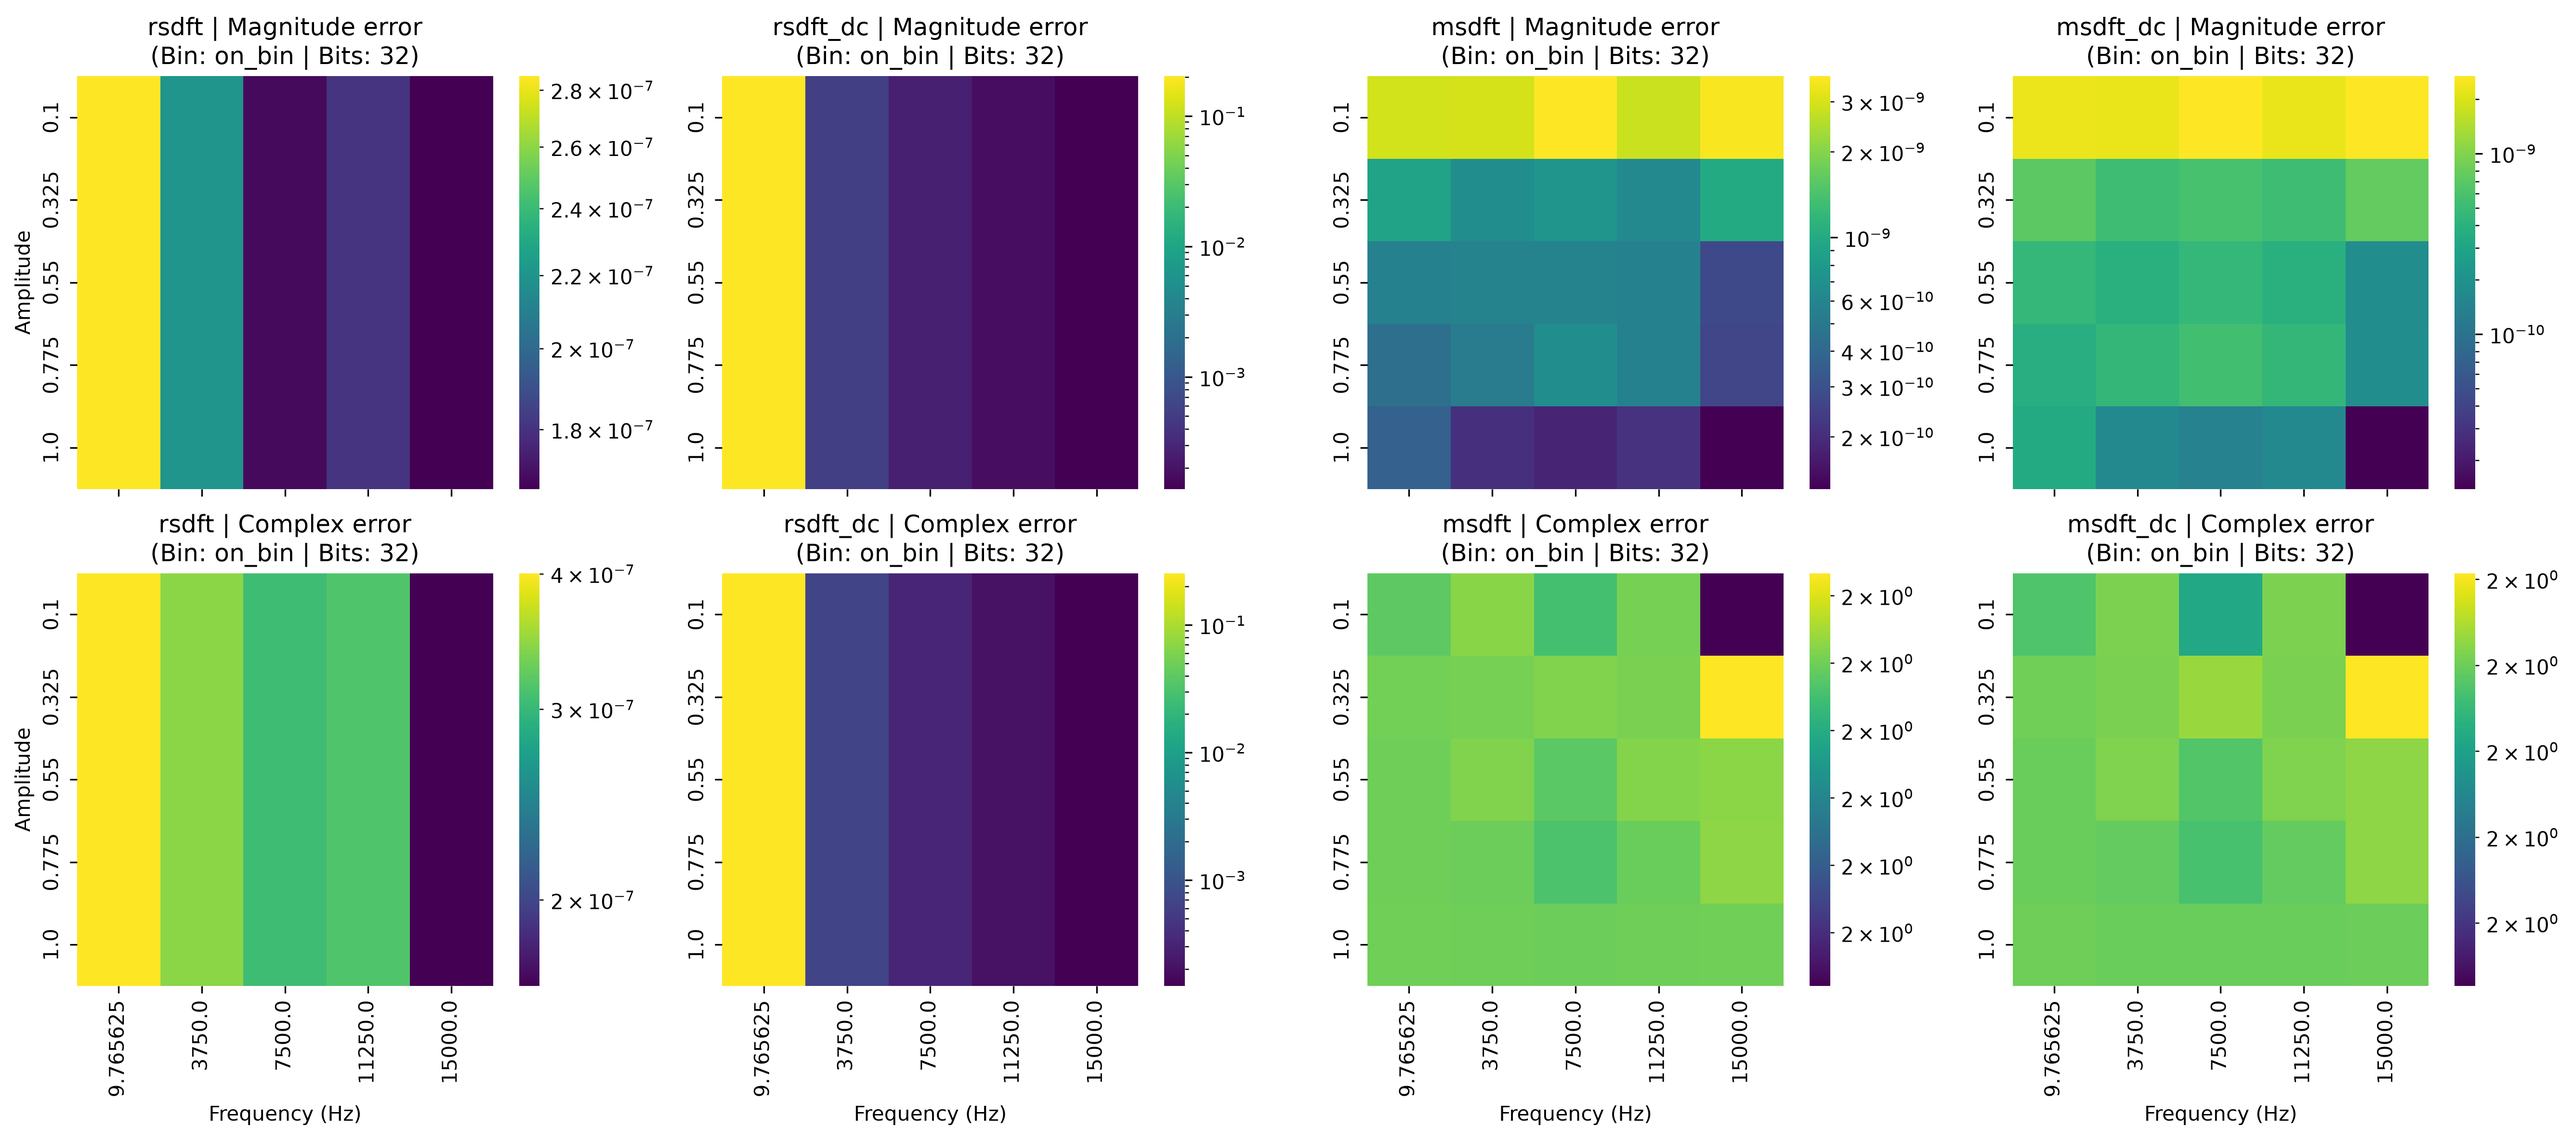
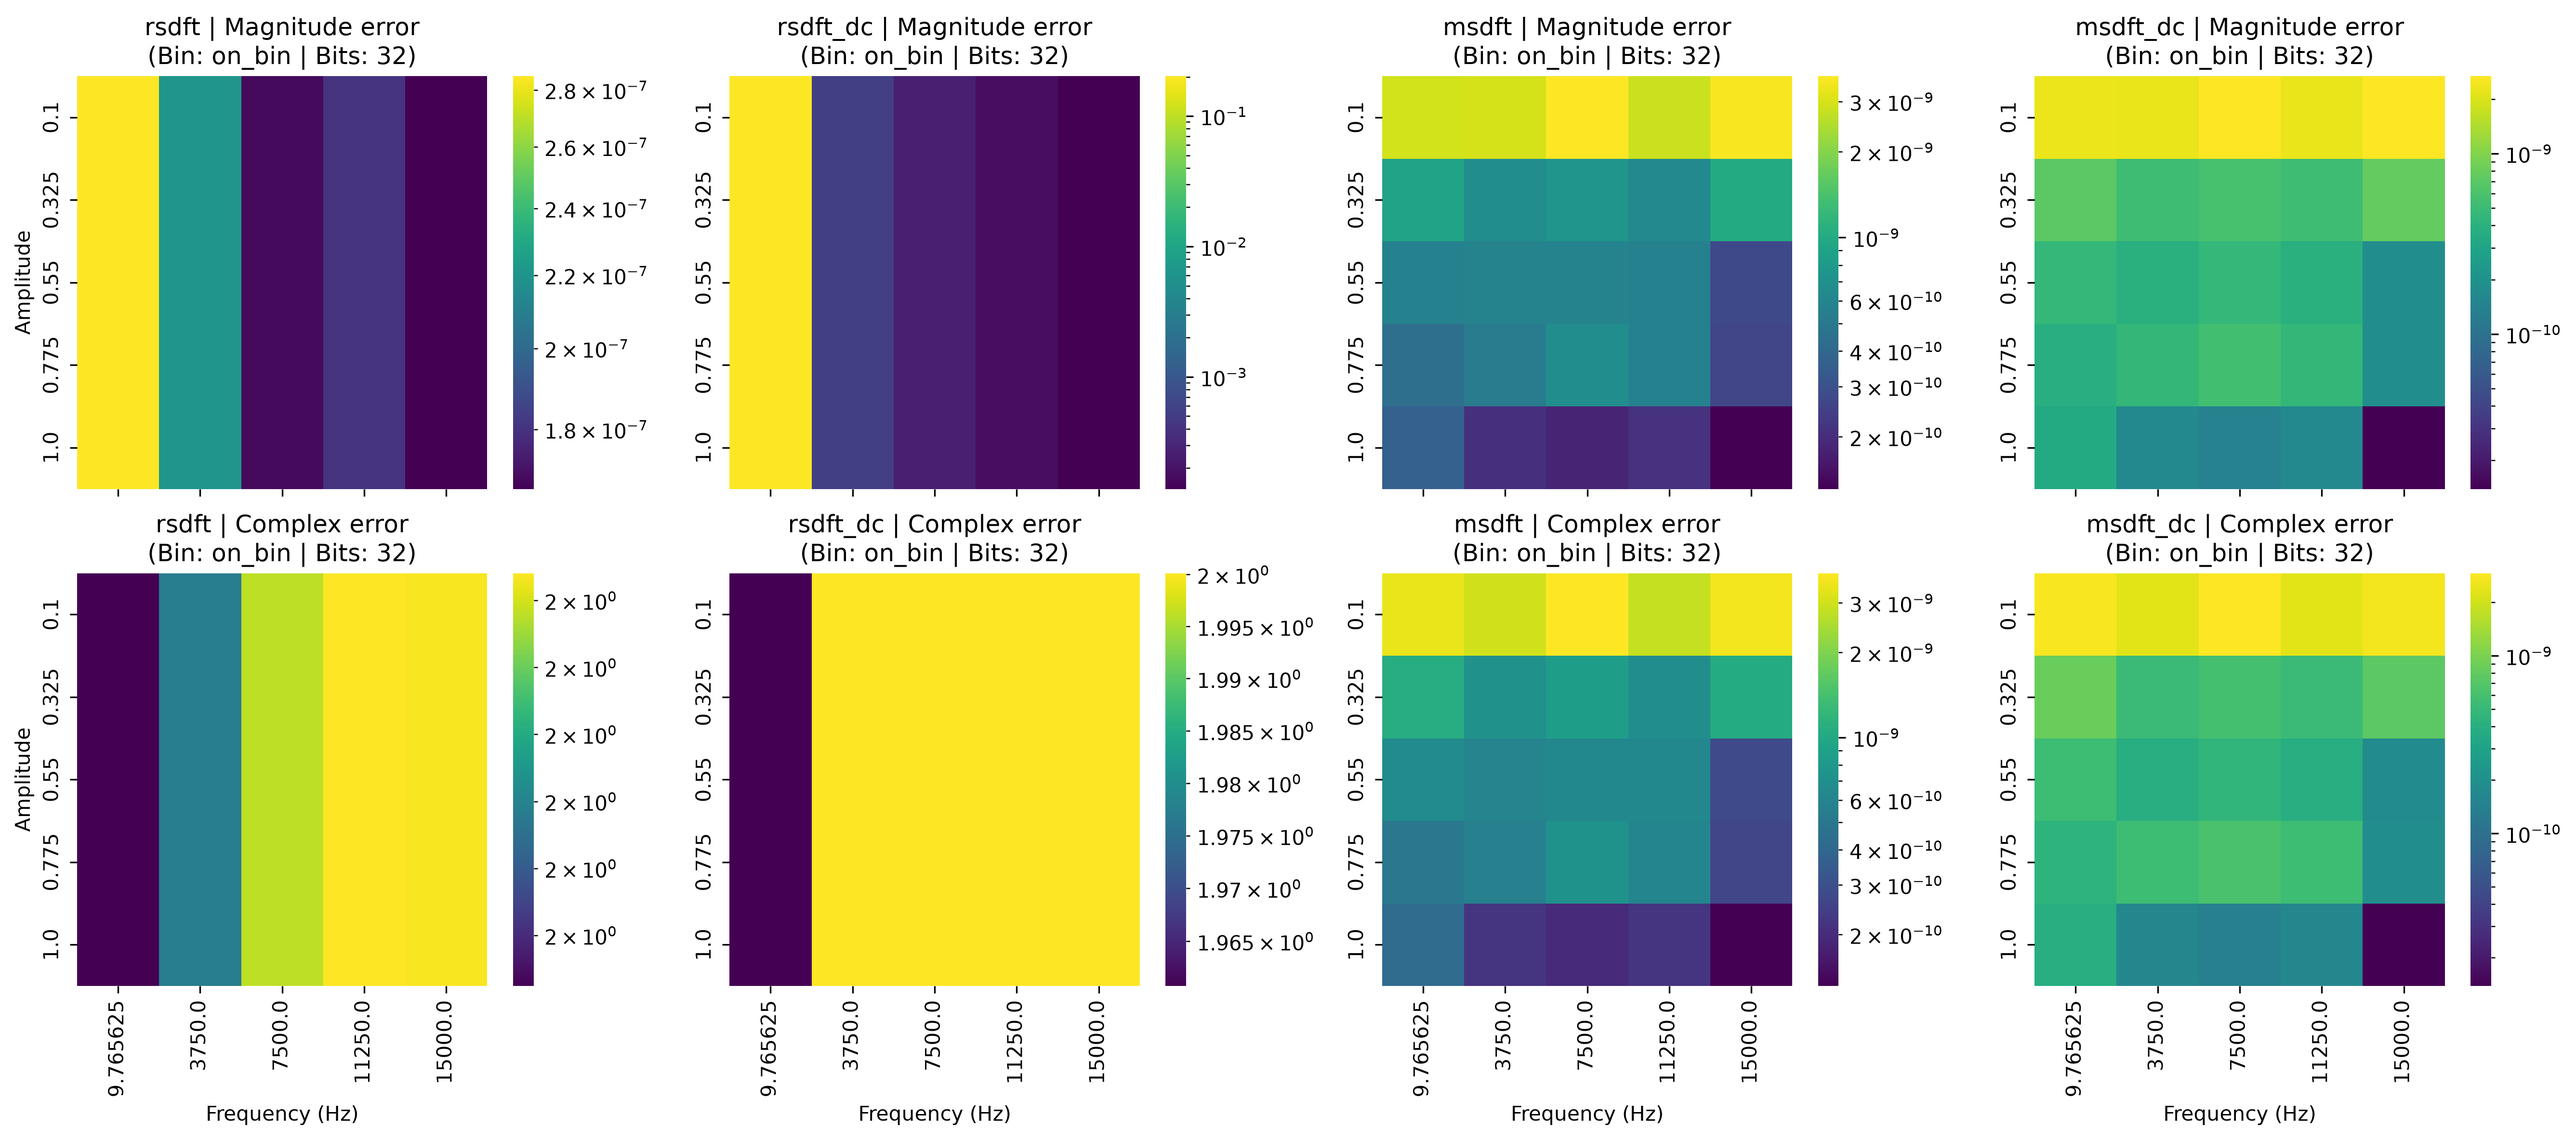
add: new results

diff --git a/main2.py b/main2.py
@@ -32,7 +32,7 @@ params = (OSDFT_R, RSDFT_DC, OSDFT_M, MSDFT_DC, DFT_FFT)
 
 window_size = 4096
 fps_animation = 30
-num_bits_list = [52, 32, 16, 8] #max 52 bits to be sure
+num_bits_list = [32, 16, 8] #max 52 bits to be sure
 quantizer_enabler = [True]#, True]
 max_amplitude = 100
 f_max = 15000
